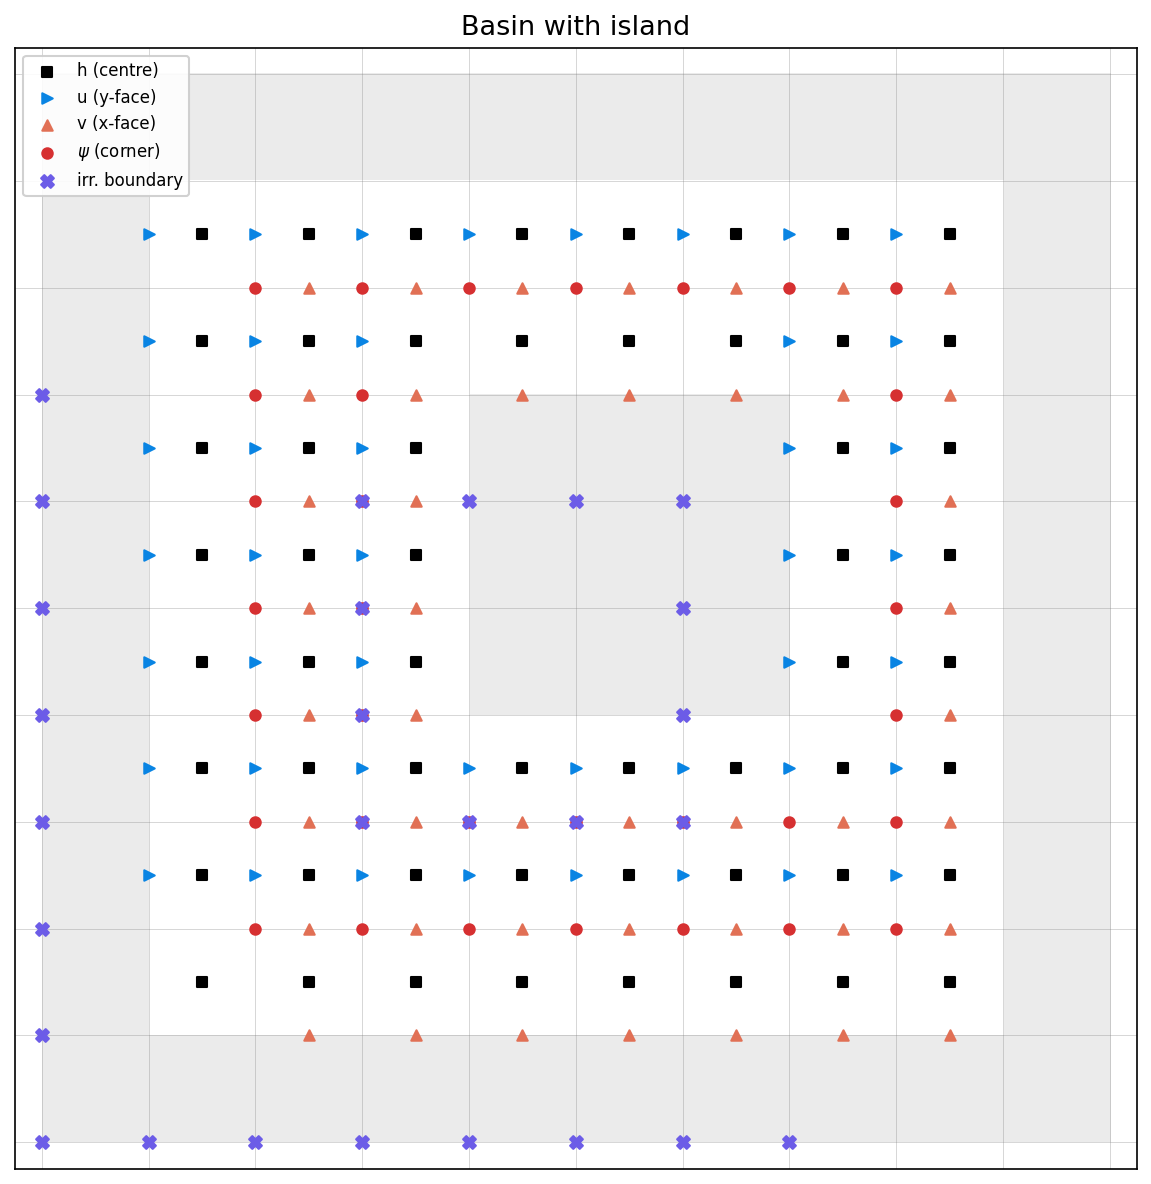
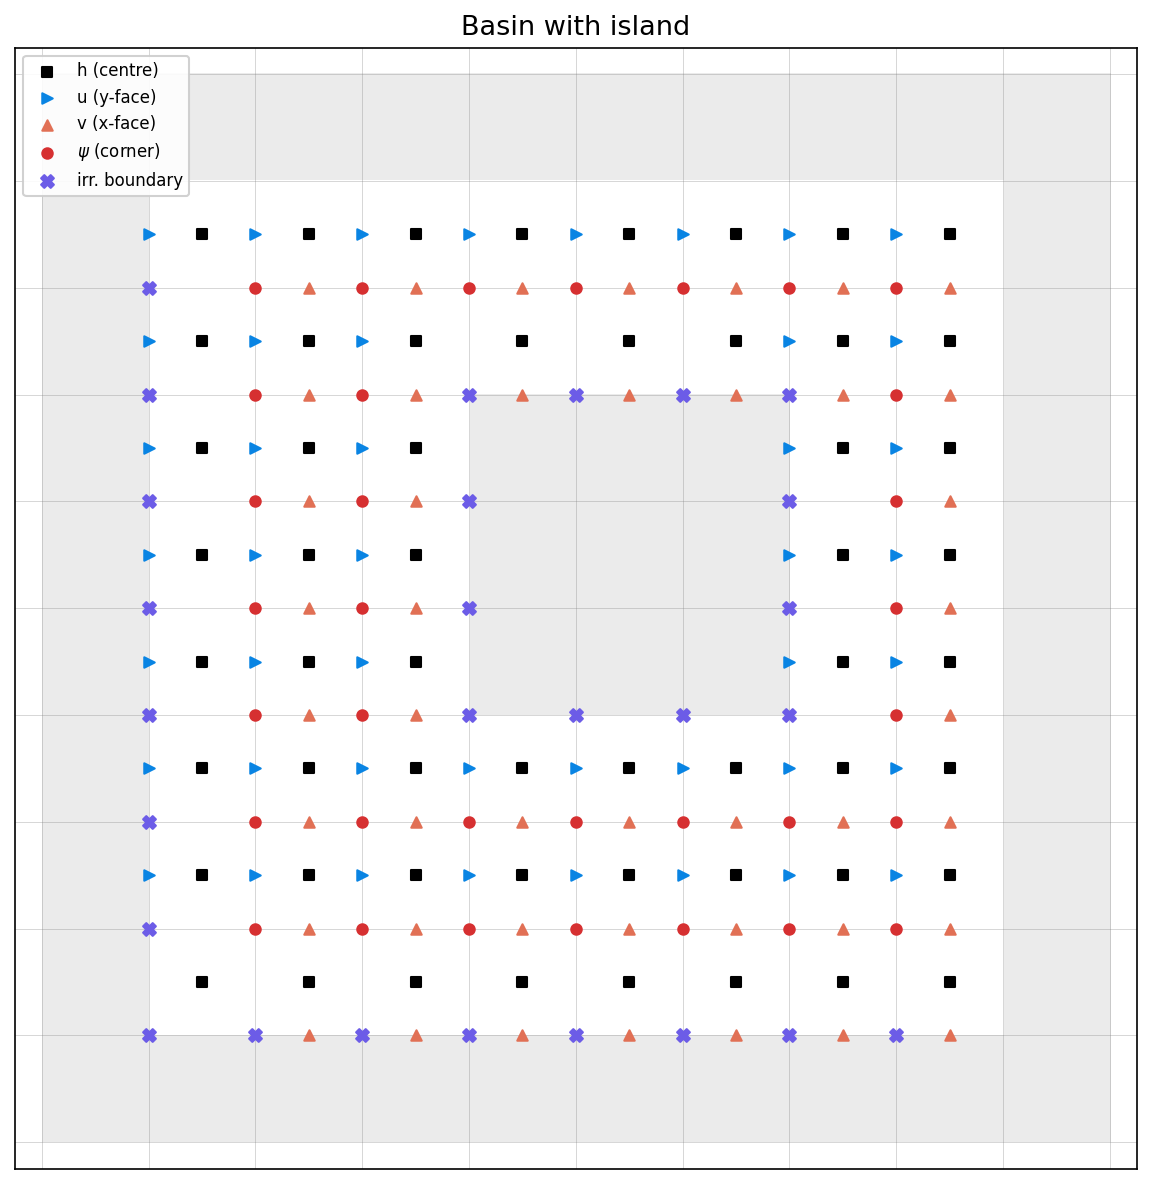
fix(masks): correct psi_irrbound index offset and x/y swap
The irregular psi boundary indices were computed on the interior slice
psi[1:-1, 1:-1] but stored without adding the +1 offset back to
full-array coordinates. Additionally, rows (y) and cols (x) were
swapped when assigned to psi_irrbound_xids/yids.

diff --git a/finitevolx/_src/grid/cgrid_mask.py b/finitevolx/_src/grid/cgrid_mask.py
@@ -508,6 +508,9 @@ class ArakawaCGridMask(eqx.Module):
             pool3 /= 9.0
             irrbound = (~psi_np[1:-1, 1:-1]) & (pool3 > 1.0 / 18.0)
             rows, cols = np.where(irrbound)
+            # Map back from interior slice to full-array coordinates.
+            rows = rows + 1
+            cols = cols + 1
         else:
             rows = np.empty(0, dtype=np.int32)
             cols = np.empty(0, dtype=np.int32)
@@ -554,8 +557,8 @@ class ArakawaCGridMask(eqx.Module):
             w_horizontal_bound=jnp.asarray(w_hb),
             w_cornerout_bound=jnp.asarray(w_co),
             w_valid=jnp.asarray(w_va),
-            psi_irrbound_xids=jnp.asarray(rows.astype(np.int32)),
-            psi_irrbound_yids=jnp.asarray(cols.astype(np.int32)),
+            psi_irrbound_yids=jnp.asarray(rows.astype(np.int32)),
+            psi_irrbound_xids=jnp.asarray(cols.astype(np.int32)),
             classification=jnp.asarray(classification),
             stencil_capability=sc,
             sponge=jnp.asarray(sponge_np),

diff --git a/tests/test_cgrid_mask.py b/tests/test_cgrid_mask.py
@@ -291,10 +291,10 @@ class TestIrregularBoundary:
     def test_within_interior_bounds(self, rect_cgrid):
         m = rect_cgrid
         Ny, Nx = m.h.shape
-        assert bool(jnp.all(m.psi_irrbound_xids >= 0))
-        assert bool(jnp.all(m.psi_irrbound_xids < Ny - 2))
-        assert bool(jnp.all(m.psi_irrbound_yids >= 0))
-        assert bool(jnp.all(m.psi_irrbound_yids < Nx - 2))
+        assert bool(jnp.all(m.psi_irrbound_yids >= 1))
+        assert bool(jnp.all(m.psi_irrbound_yids < Ny - 1))
+        assert bool(jnp.all(m.psi_irrbound_xids >= 1))
+        assert bool(jnp.all(m.psi_irrbound_xids < Nx - 1))
 
 
 # ── land / coast classification ───────────────────────────────────────────────
